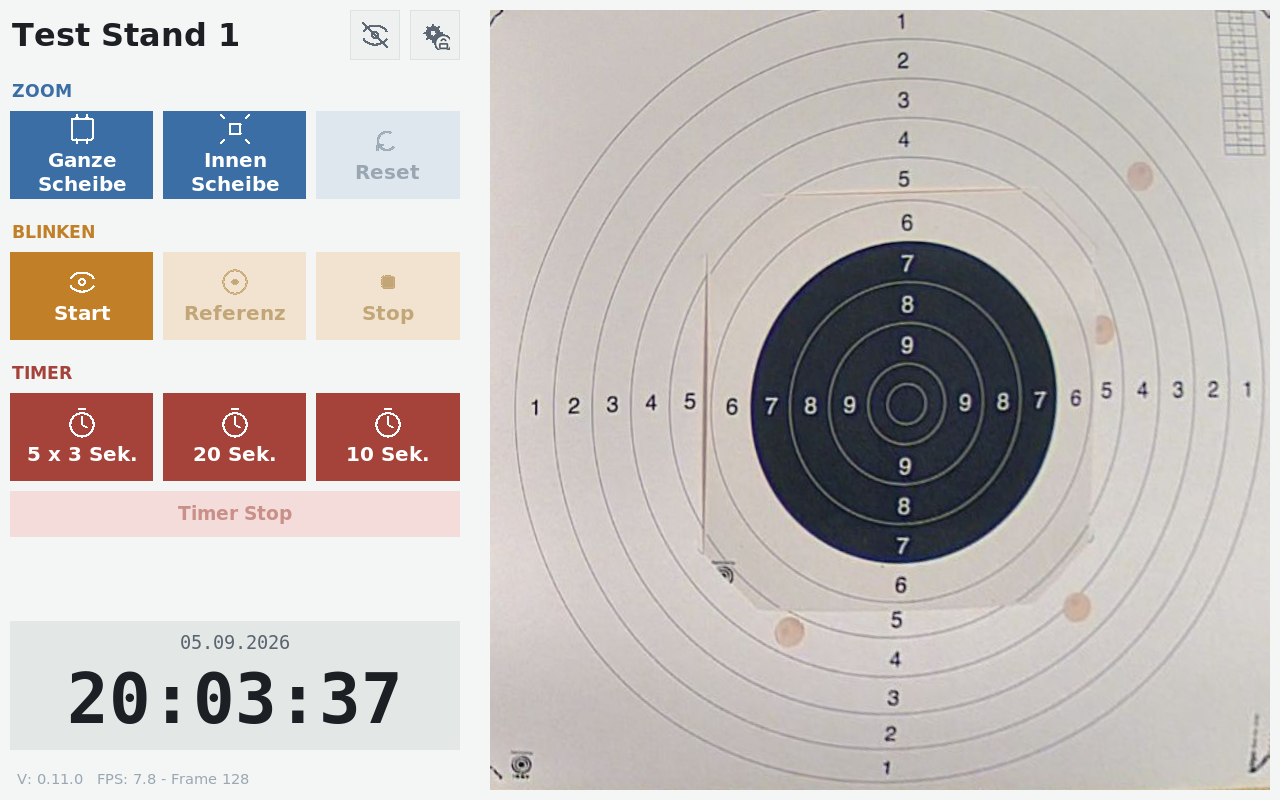
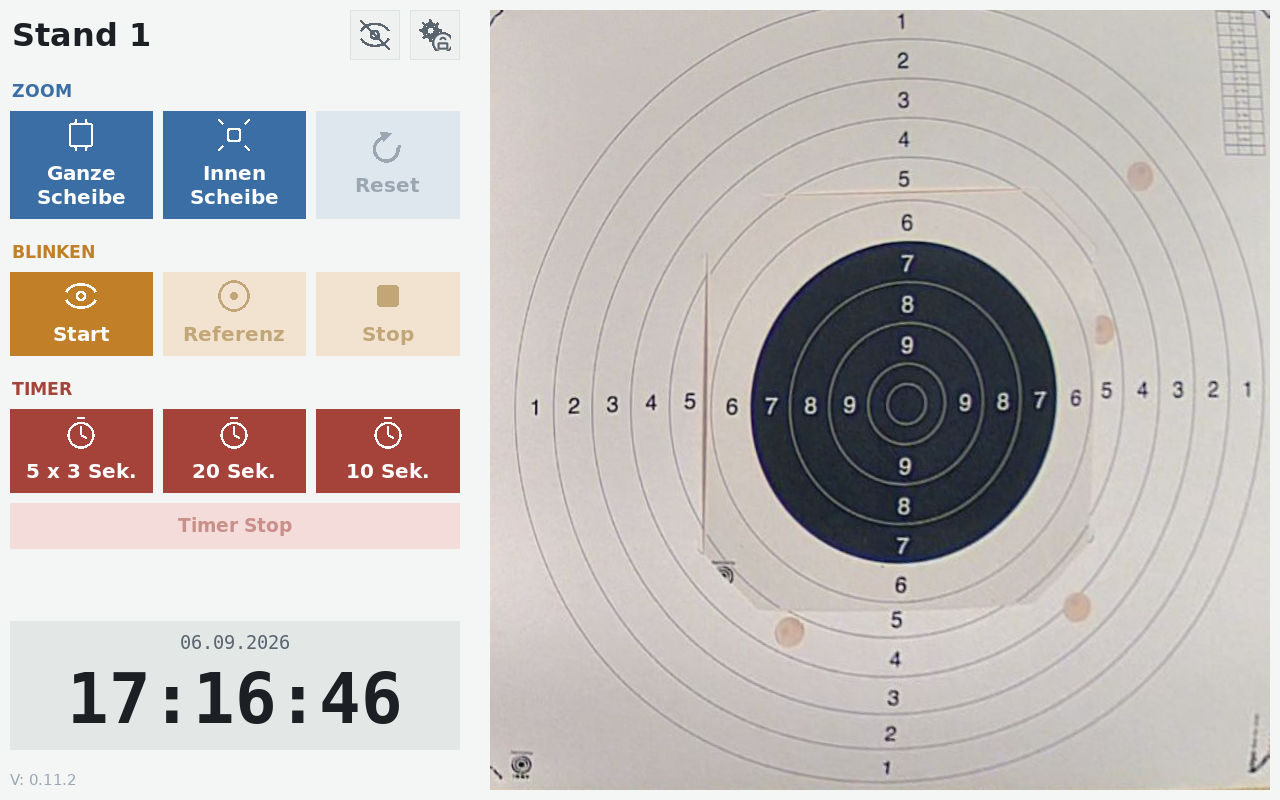
Fresh-Install-Test abgeschlossen: v0.11.2, Doku aktualisiert, Screenshot erneuert
Kompletter Fresh-Install-Testlauf durchgefuehrt und verifiziert:
Wizard (Stand-Auswahl, beide Kalibrierungen, PIN-Aenderung) durchlaufen,
kompletter Basistest (Zoom/Blinken/Timer/Video-aus/Settings-Navigation)
gegen den lokalen Dummy-Stream, sowie Read-only-Overlay aktiviert und
eine Settings-Aenderung (PIN) unter aktivem Overlay inkl. echtem Reboot
auf Persistenz verifiziert (bleibt korrekt, da /boot/firmware separat
vom Root-Overlay per eigenem rw/ro-Remount in den Save-Skripten
behandelt wird).

- Versionsbump 0.11.1 -> 0.11.2
- ansible/README.md: Restart-Verhalten aus dem vorherigen Commit ergaenzt
- docs/FRESH_INSTALL.md: Mac-spezifischer Abschnitt zur Ansible-
  Installation (brew vs. pip/ansible-core + community.general)
- docs/screenshot.png: neue, punktsymmetrische Icons uebernommen (war
  noch der Stand vor der Icon-Symmetrie-Korrektur)

diff --git a/main.py b/main.py
@@ -44,7 +44,7 @@ STREAM_STALE_TIMEOUT_SEC = 10
 # einen Ausfall WAEHREND eines bereits laufenden Streams.
 STREAM_STARTUP_TIMEOUT_SEC = 30
 
-version = '0.11.1'
+version = '0.11.2'
 
 cfg = config.load("config.yml")
 

diff --git a/ansible/README.md b/ansible/README.md
@@ -33,7 +33,7 @@ Omit it (or re-run without the flag) to go back to the default (`main`) on the n
 - Creates a dedicated, unprivileged system user (`targetdisplay_service_user`, default `targetdisplay`) and launches the X11 session via a systemd service (`targetdisplay.service`, `startx` + `.xinitrc`) running as that user — no `nodm`/autologin under the general-purpose admin account. Deliberately **no** `PAMName=login`: it moves the session into its own logind cgroup, which stops `systemctl stop/restart` from ever reaching the real process tree — device access instead relies solely on group membership (`video`/`render`/`input`)
 - Configures persistent journald logging (own drop-in overriding Raspberry Pi OS's default volatile-storage drop-in) so logs survive a reboot — needed to debug anything in the failure-escalation path below
 - Forces the display resolution to match the production stands (1280×800, `hdmi_mode=27` + `hdmi_ignore_edid`) regardless of which physical monitor is attached, via `targetdisplay_screen_width`/`_height`
-- Deploys the TargetDisplay app itself (`git pull` of the default branch, or `targetdisplay_git_version` if set — see above — + a `--system-site-packages` venv owned by the service user, dependencies from the app's `requirements.txt`), then overlays a custom logo if one is present (see "Custom logo" below)
+- Deploys the TargetDisplay app itself (`git pull` of the default branch, or `targetdisplay_git_version` if set — see above — + a `--system-site-packages` venv owned by the service user, dependencies from the app's `requirements.txt`), then overlays a custom logo if one is present (see "Custom logo" below). `targetdisplay.service` restarts automatically whenever any of these actually changed anything (checkout, venv, `config.yml`, logo, `.xinitrc`, or the unit file itself) — not just on a unit-file change as in earlier versions of this playbook, which used to leave an already-running process serving the old code after a code-only redeploy (e.g. switching `targetdisplay_git_version`) until a manual `systemctl restart`
 - Renders `config.yml` from a template using the per-host inventory variables (`targetdisplay_screen_width`/`_height`, `my_settings_pin` — camera URL, regions and stand name are deliberately **not** templated here, see "First-run setup wizard" below)
 - Renders `targetdisplay-stands.json` (the fleet-wide stand list) to the boot partition — see `tasks/stands.yml`
 - Installs a narrowly-scoped sudoers rule for the app's own PIN-gated in-app Settings/Restart buttons: the unprivileged service user may run exactly three scripts, one per action (`targetdisplay-save-sections.sh`, `targetdisplay-save-active-stand.sh`, `targetdisplay-save-pin.sh` — each writes just its own override file to the boot partition) plus `/usr/sbin/reboot`, nothing else — see `tasks/settings_sudo.yml`

diff --git a/docs/FRESH_INSTALL.md b/docs/FRESH_INSTALL.md
@@ -36,6 +36,29 @@ Vereinslogo per MD5-Abgleich bestätigt korrekt eingespielt.
   ansible-galaxy collection install community.general
   ```
 
+### Control-Rechner ist ein Mac
+
+Alles oben gilt unverändert (die Playbooks laufen auf dem *verwalteten*
+Pi, nicht auf dem Mac) — nur die Installation von Ansible selbst
+unterscheidet sich:
+
+```bash
+brew install ansible
+```
+
+Installiert damit direkt das volle `ansible`-Paket (nicht nur
+`ansible-core`) inkl. `community.general` — der oben beschriebene
+zusätzliche `ansible-galaxy collection install`-Schritt entfällt dann.
+Wer stattdessen bewusst nur `ansible-core` will (z.B. um wie in diesem
+Projekt genutzt Lücken zwischen `ansible.builtin` und den Collections
+sichtbar zu halten, siehe Kommentar oben): `python3 -m pip install --user
+ansible-core`, dann weiterhin den `ansible-galaxy collection
+install community.general`-Schritt ausführen. In beiden Fällen wird kein
+Xcode/Homebrew-Zubehör auf dem *Pi* installiert — nur `git`,
+`ansible-playbook`, ein SSH-Key und (für den optionalen Boot-Overrides-
+Kniff im Anhang) der Finder zum Mounten der frisch geflashten SD-Karte
+werden auf dem Mac gebraucht.
+
 ## Schritt 0 — Manueller Vorbereitungsschritt: Passwortloses sudo
 
 **Das ist der einzige Schritt in dieser Anleitung, der nicht über Ansible
